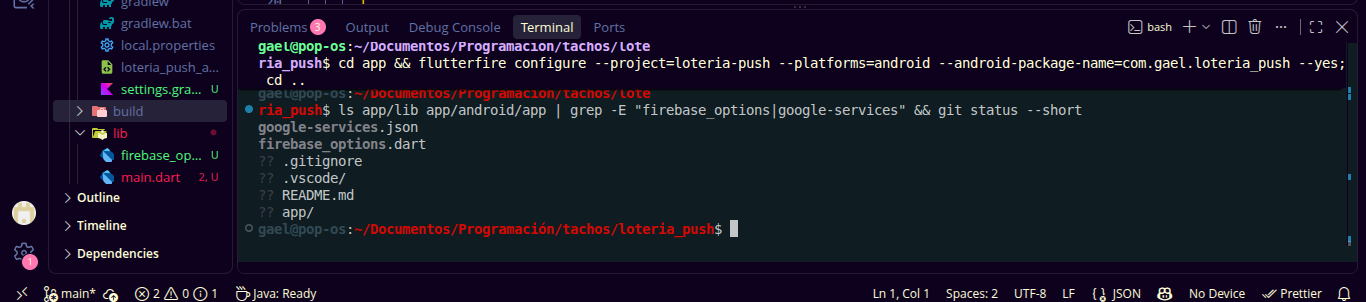
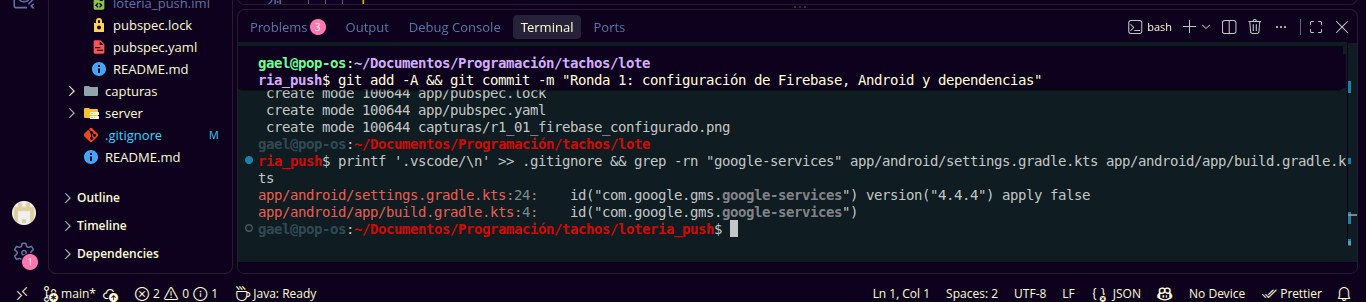
Ronda 1: configuración de Firebase, Android y dependencias

diff --git a/README.md b/README.md
@@ -10,3 +10,7 @@ Manual TDD: notificaciones push (Firebase Cloud Messaging) en Flutter con un ser
 ### Ronda 1. Firebase configurado
 
 ![Firebase configurado](capturas/r1_01_firebase_configurado.png)
+
+### Ronda 1. Firebase configurado
+
+![Firebase configurado](capturas/r1_01_firebase_configurado.png)
